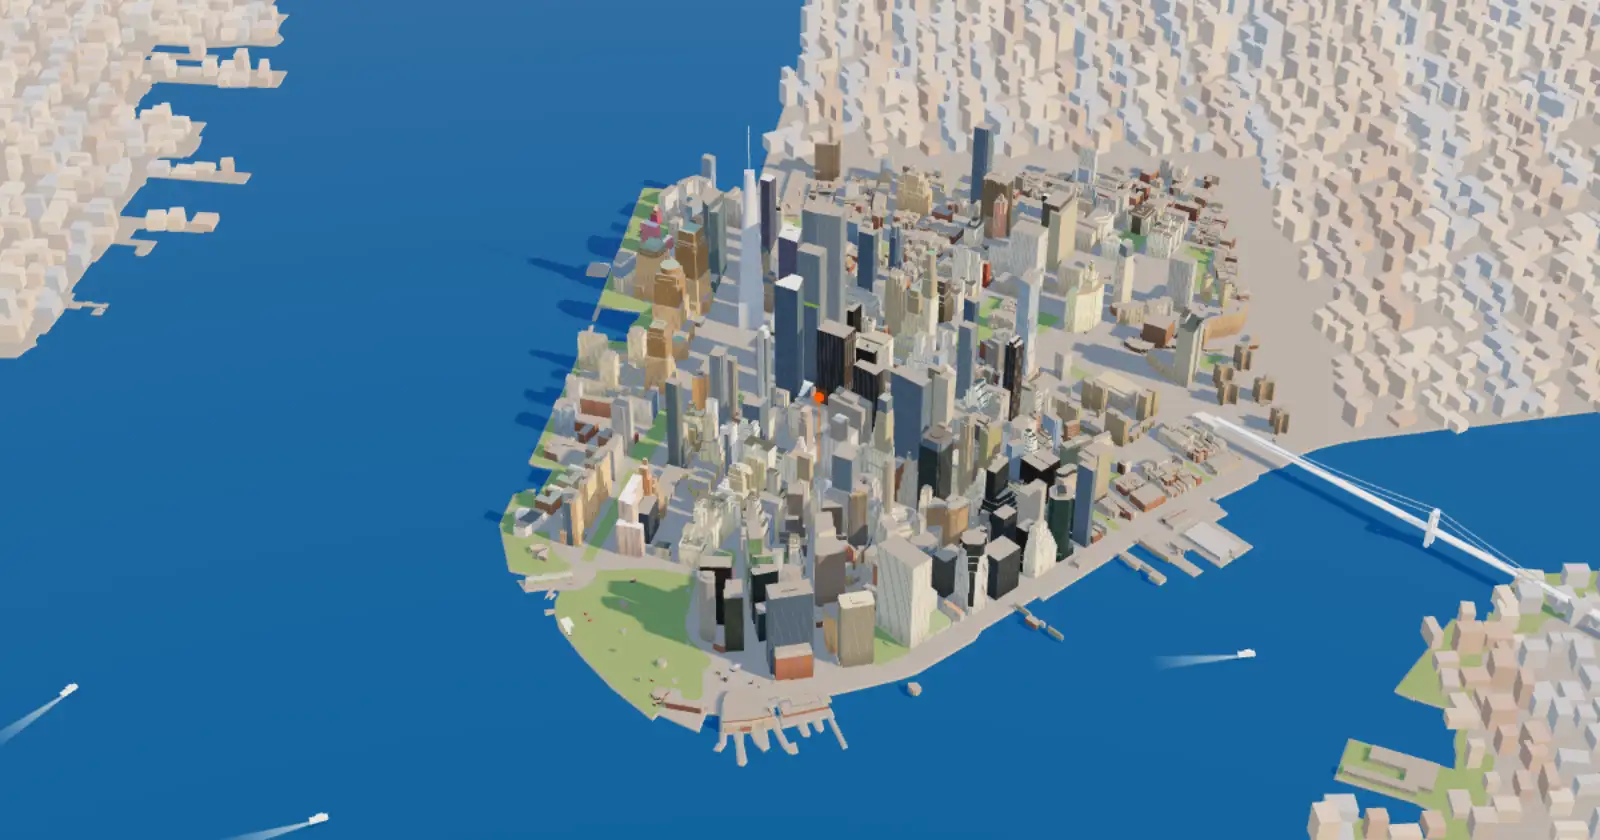
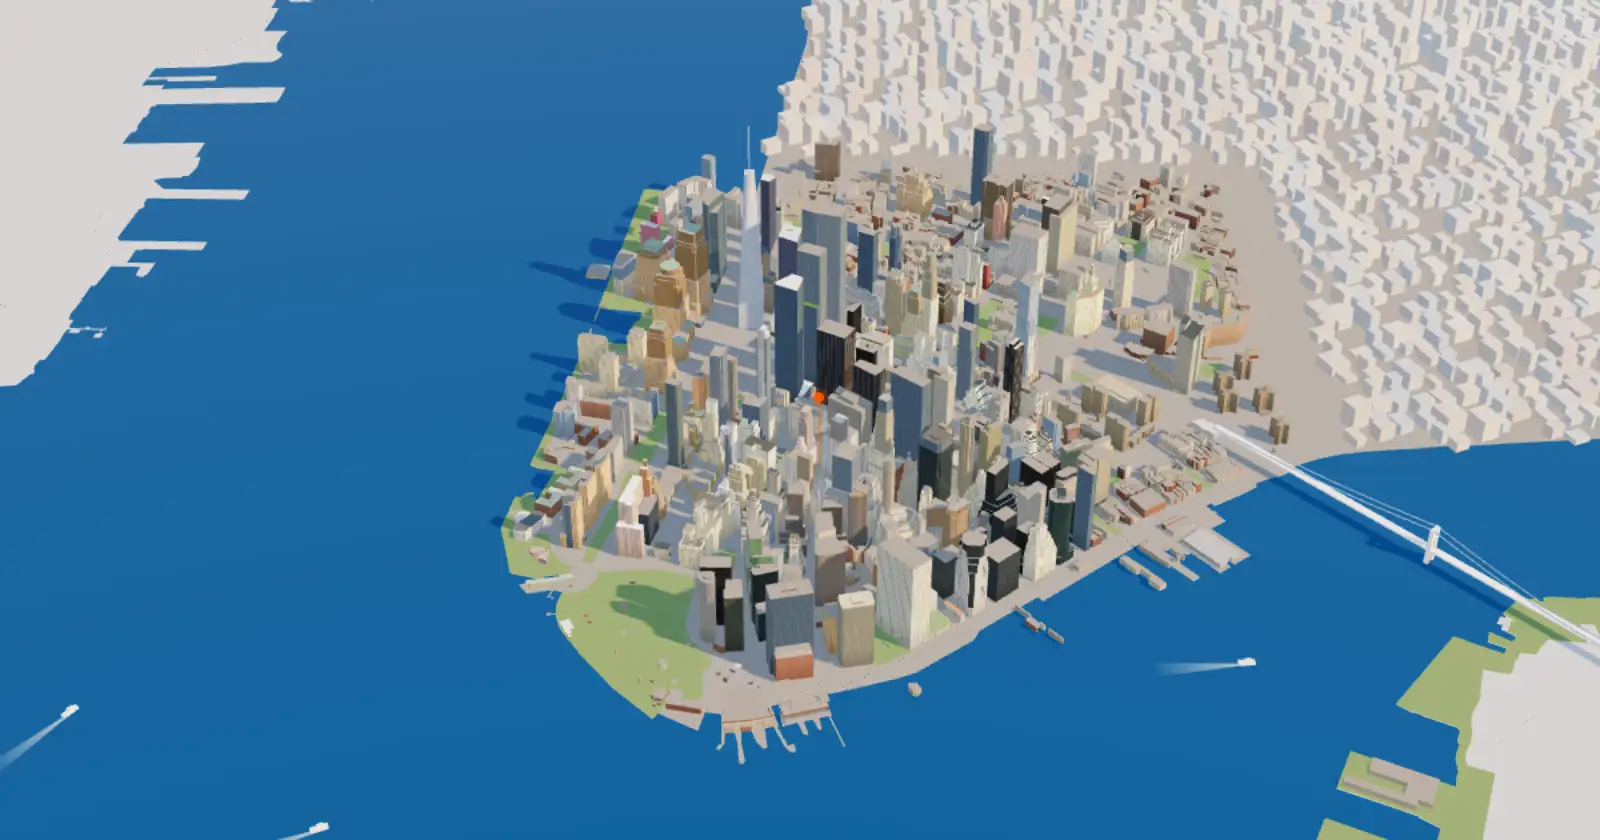
Curved harbour horizon, open sides; colour tokens on navy

diff --git a/src/style.css b/src/style.css
@@ -14,6 +14,8 @@
   --orange: #ff5400;
   --orange-press: #d06b18;
   --orange-text: #bf3f00;
+  --on-dark-2: rgba(255, 255, 255, 0.82); /* body copy on navy */
+  --on-dark-3: rgba(255, 255, 255, 0.66); /* labels, meta and fine print on navy */
   --orange-soft: #ff8a4c; /* orange for text on navy: 6:1 (brand orange is 3.5:1 there) */
   --bg: #f3f8ff; /* brand Cloud White */
   --surface: #ffffff;
@@ -133,7 +135,7 @@ main > section { scroll-margin-top: 72px; } /* anchor jumps clear the docked hea
 /* Paired times (the page's core idea, set as type): India time leads, New York time follows in muted tabular figures. */
 .tz, .tz-et { font-variant-numeric: tabular-nums; }
 .tz-et { color: var(--muted); font-weight: 600; white-space: nowrap; }
-.now-label .tz-et { color: rgba(255, 255, 255, 0.72); }
+.now-label .tz-et { color: var(--on-dark-3); }
 @media (max-width: 560px) {
   .now-label .now-word { display: none; } /* phones: the pill carries both times instead of the word */
   .when .lead .tz-et { display: block; } /* New York time on its own line, no leading separator */
@@ -292,25 +294,25 @@ main > section { scroll-margin-top: 72px; } /* anchor jumps clear the docked hea
 
 /* ---------- How it works: navy band with money routes ---------- */
 .eligibility { display: grid; grid-template-columns: 160px minmax(0, 1fr); gap: 24px; align-items: start; padding: 22px 26px; margin-bottom: 64px; border-radius: 16px; background: rgba(255, 255, 255, 0.06); box-shadow: inset 0 0 0 1px rgba(255, 255, 255, 0.12); }
-.eligibility-title { font-size: 12px; font-weight: 700; letter-spacing: 0.16em; text-transform: uppercase; color: rgba(255, 255, 255, 0.72); padding-top: 3px; }
+.eligibility-title { font-size: 12px; font-weight: 700; letter-spacing: 0.16em; text-transform: uppercase; color: var(--on-dark-3); padding-top: 3px; }
 .eligibility ul { list-style: none; margin: 0; padding: 0; display: grid; grid-template-columns: repeat(3, minmax(0, 1fr)); gap: 24px; }
 .eligibility li { display: flex; flex-direction: column; gap: 4px; }
 .eligibility strong { font-size: 16px; color: #fff; }
-.eligibility span { font-size: 14px; line-height: 1.5; color: rgba(255, 255, 255, 0.78); }
+.eligibility span { font-size: 14px; line-height: 1.5; color: var(--on-dark-2); }
 @media (max-width: 900px) { .eligibility { grid-template-columns: minmax(0, 1fr); gap: 14px; margin-bottom: 48px; } .eligibility ul { grid-template-columns: minmax(0, 1fr); gap: 14px; } }
 .how-dark { background: var(--navy); color: #fff; }
-.how-dark .eyebrow { color: rgba(255, 255, 255, 0.72); }
+.how-dark .eyebrow { color: var(--on-dark-3); }
 .how-dark .h2 { color: #fff; }
 .how-dark .steps::before { background: rgba(255, 255, 255, 0.2); }
 .how-dark .step-n { background: var(--navy); color: #fff; box-shadow: inset 0 0 0 2px rgba(255, 255, 255, 0.85), 0 0 0 8px var(--navy); }
 .how-dark .steps li:first-child .step-n { background: var(--orange); color: var(--ink); box-shadow: 0 0 0 8px var(--navy); }
 .how-dark .steps h3 { color: #fff; }
-.how-dark .steps p { color: rgba(255, 255, 255, 0.78); }
+.how-dark .steps p { color: var(--on-dark-2); }
 .route { margin-top: 72px; display: grid; gap: 20px; }
 .lane { padding: 28px 32px 32px; border-radius: 18px; background: rgba(255, 255, 255, 0.06); box-shadow: inset 0 0 0 1px rgba(255, 255, 255, 0.12); }
 .lane-head { display: flex; justify-content: space-between; align-items: baseline; gap: 16px; margin-bottom: 30px; }
 .lane-head h3 { font-size: 18px; font-weight: 800; color: #fff; }
-.lane-head span { font-size: 12px; font-weight: 700; letter-spacing: 0.12em; color: rgba(255, 255, 255, 0.72); }
+.lane-head span { font-size: 12px; font-weight: 700; letter-spacing: 0.12em; color: var(--on-dark-3); }
 .track { position: relative; }
 .track ol { list-style: none; margin: 0; padding: 0; display: grid; grid-template-columns: repeat(var(--n), minmax(0, 1fr)); }
 .rail { position: absolute; left: calc(50% / var(--n)); right: calc(50% / var(--n)); top: 7px; height: 2px; background: rgba(255, 255, 255, 0.22); }
@@ -320,9 +322,9 @@ main > section { scroll-margin-top: 72px; } /* anchor jumps clear the docked hea
 .node { position: relative; display: flex; flex-direction: column; align-items: center; gap: 14px; padding: 0 10px; text-align: center; }
 .node-dot { width: 16px; height: 16px; border-radius: 50%; background: var(--navy); box-shadow: inset 0 0 0 2px rgba(255, 255, 255, 0.85); }
 .node:last-child .node-dot { background: #fff; }
-.node-label { font-size: 14px; line-height: 1.45; color: rgba(255, 255, 255, 0.86); }
+.node-label { font-size: 14px; line-height: 1.45; color: var(--on-dark-2); }
 .node:last-child .node-label { color: #fff; font-weight: 700; }
-.lane-note { margin-top: 26px; padding-top: 18px; border-top: 1px solid rgba(255, 255, 255, 0.14); font-size: 14px; color: rgba(255, 255, 255, 0.78); }
+.lane-note { margin-top: 26px; padding-top: 18px; border-top: 1px solid rgba(255, 255, 255, 0.14); font-size: 14px; color: var(--on-dark-2); }
 /* Reveal: rail draws, nodes arrive in order, then the dot starts travelling (JS adds .is-in). */
 .js .lane .rail { transform: scaleX(0); transform-origin: left center; transition: transform 0.9s var(--ease) 0.1s; }
 .js .lane-out .rail { transform-origin: right center; }
@@ -378,7 +380,7 @@ main > section { scroll-margin-top: 72px; } /* anchor jumps clear the docked hea
 .layers .layer.layer-core { background: var(--navy); box-shadow: 0 18px 40px -20px rgba(4, 33, 63, 0.6); border-radius: 14px; }
 .layer-core .layer-tag { color: #fff; }
 .layer-core .layer-tag::before { content: ''; display: inline-block; width: 8px; height: 8px; margin-right: 8px; border-radius: 50%; background: var(--orange); vertical-align: 1px; }
-.layers .layer-core .layer-text { color: rgba(255, 255, 255, 0.86); }
+.layers .layer-core .layer-text { color: var(--on-dark-2); }
 @media (max-width: 900px) { .trust-split { grid-template-columns: minmax(0, 1fr); gap: 36px; } }
 @media (max-width: 560px) { .layer { padding: 16px 14px 16px; } .layers-inner { margin-top: 12px; } .layer-text { font-size: 14px; } }
 .trust { background: var(--surface); }
@@ -421,13 +423,13 @@ main > section { scroll-margin-top: 72px; } /* anchor jumps clear the docked hea
 @media (max-width: 900px) { .pricing-split { grid-template-columns: minmax(0, 1fr); gap: 36px; } }
 /* Pricing is a navy band: it splits the long light run after How and puts the deciding numbers on the strongest surface. */
 .pricing { background: var(--navy); color: #fff; }
-.pricing .eyebrow { color: rgba(255, 255, 255, 0.72); }
+.pricing .eyebrow { color: var(--on-dark-3); }
 .pricing .h2 { color: #fff; }
 .pricing .benefits li { border-top-color: rgba(255, 255, 255, 0.16); }
 .pricing .benefits strong { color: #fff; }
-.pricing .benefits span { color: rgba(255, 255, 255, 0.78); }
+.pricing .benefits span { color: var(--on-dark-2); }
 .pricing .prices { box-shadow: 0 24px 60px -24px rgba(5, 18, 40, 0.6); }
-.pricing .fine { color: rgba(255, 255, 255, 0.7); }
+.pricing .fine { color: var(--on-dark-3); }
 .pricing .fine a { color: #fff; text-decoration: underline; text-underline-offset: 2px; }
 .pricing-cta { align-self: flex-start; margin-top: 16px; } /* the decision point gets its action */
 @media (max-width: 900px) { .pricing-cta { display: none; } } /* the dock carries this action below 900px; here it would sit above the prices */
@@ -499,24 +501,24 @@ html:not(.js) .tabs { display: none; } /* without JS the tabs can't switch, so s
 .cta-inner { display: flex; flex-direction: column; align-items: flex-start; gap: 20px; }
 .cta .h2 { color: #fff; }
 .cta .lead { text-wrap: balance; }
-.cta .lead { color: rgba(255, 255, 255, 0.78); }
+.cta .lead { color: var(--on-dark-2); }
 .cta-capture { max-width: 560px; margin-top: 12px; text-align: left; box-shadow: 0 0 0 1px rgba(255, 255, 255, 0.12), 0 24px 50px -20px rgba(0, 0, 0, 0.5); }
 .cta .capture-error { color: #ffb4a8; margin-top: 0; }
 .cta .cta-inner > .cta-benefits { max-width: 680px; }
-.cta-benefits { list-style: none; margin: 0; padding: 0; display: flex; flex-wrap: wrap; gap: 8px 22px; font-size: 14px; font-weight: 600; color: rgba(255, 255, 255, 0.86); }
+.cta-benefits { list-style: none; margin: 0; padding: 0; display: flex; flex-wrap: wrap; gap: 8px 22px; font-size: 14px; font-weight: 600; color: var(--on-dark-2); }
 .cta-benefits li { display: flex; align-items: center; gap: 8px; }
 .cta-benefits li::before { content: ''; width: 6px; height: 6px; border-radius: 50%; background: var(--orange); }
 /* Even rows instead of a 3+1 wrap with an orphan: 2×2 under the form, one centred column on phones. */
 .cta-benefits { display: grid; grid-template-columns: repeat(2, max-content); gap: 10px 36px; }
 @media (max-width: 560px) { .cta-benefits { grid-template-columns: max-content; } }
-.footer { background: #052449; color: rgba(255, 255, 255, 0.78); padding: 64px 0 40px; font-size: 14px; }
+.footer { background: #052449; color: var(--on-dark-2); padding: 64px 0 40px; font-size: 14px; }
 .footer-grid { display: grid; grid-template-columns: 2fr 1fr 1fr 1fr; gap: 40px; }
 .footer-grid p { margin-top: 12px; line-height: 1.6; max-width: 340px; }
 .footer nav { display: flex; flex-direction: column; gap: 10px; }
-.footer h3 { font-size: 12px; font-weight: 700; letter-spacing: 0.16em; text-transform: uppercase; color: rgba(255, 255, 255, 0.72); margin-bottom: 4px; }
-.footer a { color: rgba(255, 255, 255, 0.85); text-decoration: none; }
+.footer h3 { font-size: 12px; font-weight: 700; letter-spacing: 0.16em; text-transform: uppercase; color: var(--on-dark-3); margin-bottom: 4px; }
+.footer a { color: var(--on-dark-2); text-decoration: none; }
 .footer a:hover { color: #fff; text-decoration: underline; }
-.footer-fine { margin-top: 48px; padding-top: 28px; border-top: 1px solid rgba(255, 255, 255, 0.14); font-size: 13px; line-height: 1.6; color: rgba(255, 255, 255, 0.72); }
+.footer-fine { margin-top: 48px; padding-top: 28px; border-top: 1px solid rgba(255, 255, 255, 0.14); font-size: 13px; line-height: 1.6; color: var(--on-dark-3); }
 
 /* ---------- Mobile dock: persistent CTA once the hero form is off-screen ---------- */
 .dock { display: none; }
@@ -757,11 +759,11 @@ main > section:not(.hero):not(.how-dark):not(.pricing):not(.cta), body > .footer
 .board { border-radius: 26px; padding: 26px 30px 14px; color: #fff; background: radial-gradient(120% 120% at 0% 0%, #0e3a72 0%, #062852 55%, #041f42 100%); box-shadow: 0 1px 0 rgba(255, 255, 255, 0.06) inset, 0 40px 80px -50px rgba(4, 33, 63, 0.7); }
 .board-top { display: flex; justify-content: space-between; align-items: center; gap: 16px; padding-bottom: 18px; border-bottom: 1px solid rgba(255, 255, 255, 0.1); }
 .board-title { font-size: 12px; font-weight: 700; letter-spacing: 0.18em; text-transform: uppercase; color: var(--orange-soft); }
-.board-status { display: flex; align-items: center; gap: 8px; font-size: 13px; color: rgba(255, 255, 255, 0.78); }
+.board-status { display: flex; align-items: center; gap: 8px; font-size: 13px; color: var(--on-dark-2); }
 .board-status .live-dot { margin-top: 0; }
 .board-table { width: 100%; border-collapse: collapse; }
-.board-table th { padding: 16px 16px 8px 0; text-align: left; font-size: 11px; font-weight: 700; letter-spacing: 0.14em; text-transform: uppercase; color: rgba(255, 255, 255, 0.6); }
-.board-table td { padding: 14px 16px 14px 0; border-top: 1px solid rgba(255, 255, 255, 0.08); font-size: 15px; color: rgba(255, 255, 255, 0.8); vertical-align: middle; }
+.board-table th { padding: 16px 16px 8px 0; text-align: left; font-size: 11px; font-weight: 700; letter-spacing: 0.14em; text-transform: uppercase; color: var(--on-dark-3); }
+.board-table td { padding: 14px 16px 14px 0; border-top: 1px solid rgba(255, 255, 255, 0.08); font-size: 15px; color: var(--on-dark-2); vertical-align: middle; }
 .board-table tbody tr:first-child td { border-top: 0; }
 .board-table tr > :last-child { padding-right: 0; text-align: right; }
 .flaps { display: inline-flex; gap: 3px; }
@@ -818,7 +820,7 @@ main > section:not(.hero):not(.how-dark):not(.pricing):not(.cta), body > .footer
 .tile p { font-size: 15px; line-height: 1.6; color: var(--slate); }
 .tile-lead { grid-column: 1 / span 2; grid-row: 1 / span 2; justify-content: flex-start; color: #fff; background: radial-gradient(120% 100% at 0% 0%, #11407c 0%, #072d5e 55%, #052449 100%); }
 .tile-lead h3 { color: #fff; font-size: 26px; }
-.tile-lead p { color: rgba(255, 255, 255, 0.8); max-width: 420px; }
+.tile-lead p { color: var(--on-dark-2); max-width: 420px; }
 .tile-marks { list-style: none; margin: auto 0 0; padding: 0; display: grid; grid-template-columns: repeat(4, 1fr); gap: 12px; }
 .tile-marks li { display: grid; place-items: center; height: 64px; border-radius: 16px; background: rgba(255, 255, 255, 0.07); box-shadow: inset 0 0 0 1px rgba(255, 255, 255, 0.1); }
 .tile-marks .logo { width: 26px; height: 26px; color: #fff; }
@@ -903,7 +905,7 @@ main > section:not(.hero):not(.how-dark):not(.pricing):not(.cta), body > .footer
 .floater > span:not([class]), .floater .f-logos + small { display: flex; flex-direction: column; }
 .floater b { font-weight: 800; color: var(--ink); }
 .floater small { font-size: 12px; color: var(--slate); font-weight: 600; }
-.f-ok { display: grid; place-items: center; width: 30px; height: 30px; border-radius: 50%; background: #1f8a4c; color: #fff; font-weight: 800; }
+.f-ok { display: grid; place-items: center; width: 30px; height: 30px; border-radius: 50%; background: #177a42; color: #fff; font-weight: 800; }
 .f-fx { font-weight: 800; color: var(--orange-text); font-size: 16px; } .f-fx i { font-style: normal; color: var(--muted); }
 .f2 { flex-direction: column; align-items: flex-start; gap: 2px; }
 .f3, .f6 { flex-direction: column; gap: 0; align-items: flex-start; } .f3 b, .f6 b { font-size: 26px; line-height: 1.1; color: var(--orange-text); }

diff --git a/src/city.js b/src/city.js
@@ -4,6 +4,15 @@
 import * as THREE from 'three';
 
 const PAGE_BG = 0xf3f8ff; // brand Cloud White; must match --bg
+
+// Curved horizon (the reference's "earth falling away"): every vertex drops with its distance from the camera's
+// line of sight, sideways and beyond the focus. Done once in the shared projection chunk so all materials,
+// shadows and sprites agree. CURVE_D is roughly the camera-to-focus distance; the label mirrors it in JS.
+const CURVE_K = 0.00016, CURVE_D = 1150;
+THREE.ShaderChunk.project_vertex = THREE.ShaderChunk.project_vertex.replace(
+  'mvPosition = modelViewMatrix * mvPosition;',
+  'mvPosition = modelViewMatrix * mvPosition;\n{ float dz_ = max(0.0, -mvPosition.z - ' + CURVE_D.toFixed(1) + '); mvPosition.y -= (dz_ * dz_ + mvPosition.x * mvPosition.x) * ' + CURVE_K + '; }',
+);
 const ORANGE = 0xff5400;
 const GROUND = 0.6; // land surface height
 
@@ -105,7 +114,7 @@ export function createCity({ canvas, label, reducedMotion = false, withClouds = 
     marker: new THREE.MeshBasicMaterial({ color: ORANGE, transparent: true, opacity: 0.95, depthWrite: false }),
   };
 
-  const water = new THREE.Mesh(new THREE.PlaneGeometry(3000, 3000), mat.water);
+  const water = new THREE.Mesh(new THREE.PlaneGeometry(3600, 3600, 160, 160), mat.water);
   water.rotation.x = -Math.PI / 2;
   water.receiveShadow = true;
   scene.add(water);
@@ -129,16 +138,33 @@ export function createCity({ canvas, label, reducedMotion = false, withClouds = 
   function build(d) {
     const rand = rng(7);
     // ---- Land and parks (flat clay slabs on the water)
+    // Flat ground pieces, tessellated so the curved horizon bends them smoothly (long triangles would sink).
+    const tessellate = (geo, maxEdge) => {
+      const src = geo.toNonIndexed().attributes.position.array, out = [];
+      const split = (a, b, c, depth) => {
+        const d = (p, q) => Math.hypot(p[0] - q[0], p[2] - q[2]);
+        if (depth > 9 || Math.max(d(a, b), d(b, c), d(c, a)) <= maxEdge) { out.push(...a, ...b, ...c); return; }
+        const m = (p, q) => [(p[0] + q[0]) / 2, (p[1] + q[1]) / 2, (p[2] + q[2]) / 2];
+        const ab = m(a, b), bc = m(b, c), ca = m(c, a);
+        split(a, ab, ca, depth + 1); split(ab, b, bc, depth + 1); split(ca, bc, c, depth + 1); split(ab, bc, ca, depth + 1);
+      };
+      for (let i = 0; i < src.length; i += 9) split([src[i], src[i + 1], src[i + 2]], [src[i + 3], src[i + 4], src[i + 5]], [src[i + 6], src[i + 7], src[i + 8]], 0);
+      const g = new THREE.BufferGeometry();
+      g.setAttribute('position', new THREE.Float32BufferAttribute(out, 3));
+      g.computeVertexNormals();
+      return g;
+    };
     const slab = (flat, depth, material, y) => {
       const shape = new THREE.Shape(pairs(flat).map(([x, z]) => new THREE.Vector2(x, -z)));
-      const geo = depth ? new THREE.ExtrudeGeometry(shape, { depth, bevelEnabled: true, bevelSize: 0.5, bevelThickness: 0.25, bevelSegments: 1 }) : new THREE.ShapeGeometry(shape);
+      const geo = new THREE.ShapeGeometry(shape);
       geo.rotateX(-Math.PI / 2);
-      const m = new THREE.Mesh(geo, material);
-      m.position.y = y;
+      const m = new THREE.Mesh(tessellate(geo, 24), material);
+      m.position.y = y + depth;
       m.receiveShadow = true;
       scene.add(m);
     };
-    d.land.forEach((l) => slab(l, GROUND - 0.25, mat.land, 0));
+    const farLand = new THREE.MeshStandardMaterial({ color: 0xc9ced3, roughness: 1 }); // other shores: pale, hazy, secondary
+    d.land.forEach((l, i) => slab(l, GROUND - 0.25, i === 0 ? mat.land : farLand, 0));
     d.parks.forEach((p) => slab(p, 0, mat.park, GROUND + 0.02));
 
     // ---- Buildings: one merged mesh of real footprints, extruded to real heights.
@@ -233,6 +259,7 @@ export function createCity({ canvas, label, reducedMotion = false, withClouds = 
         if (inMapped || !lands.some((l) => inside(l, x, z))) continue;
         const north = Math.max(0, -(z - mz0)) / 120; // Manhattan rises again towards Midtown
         const onManhattan = inside(lands[0], x, z);
+        if (!onManhattan && (Math.hypot(x, z) < 650 || rand() < 0.45)) continue; // keep the near sides open water and low shore: Manhattan is the subject
         const midtown = onManhattan ? Math.exp(-((x - esb[0]) ** 2 + (z - esb[1]) ** 2) / (2 * 130 ** 2)) : 0;
         const h = 1.6 + rand() * 5 + (onManhattan ? rand() * 9 * Math.min(1, 0.4 + north) : rand() * 4) + midtown * rand() * rand() * 34;
         fill.push({ x: x + (rand() - 0.5) * 4, z: z + (rand() - 0.5) * 4, w: 2.5 + rand() * 5, d: 2.5 + rand() * 5, r: onManhattan ? 0.5 + (rand() - 0.5) * 0.08 : (rand() - 0.5) * 0.3, h: h * (0.5 + rand() * 0.5), delay: 0.8 + Math.hypot(x, z) * 0.004 + rand() * 0.3 });
@@ -244,7 +271,7 @@ export function createCity({ canvas, label, reducedMotion = false, withClouds = 
     const CTX = ['#b9a48c', '#a7856c', '#c8b9a3', '#9fa6ad', '#8d9fb2', '#c3ad94', '#a8968a'].map((h) => new THREE.Color(h)); // brownstone, brick, limestone, glass
     const bgC = new THREE.Color(PAGE_BG), tc = new THREE.Color();
     // Atmospheric perspective: context blocks fade toward the page colour with distance, so the real island stays the subject.
-    fill.forEach((bk, i) => ctxMesh.setColorAt(i, tc.copy(CTX[(i * 7 + (i >> 3)) % CTX.length]).lerp(bgC, Math.min(0.6, 0.05 + Math.hypot(bk.x, bk.z) / 1300))));
+    fill.forEach((bk, i) => ctxMesh.setColorAt(i, tc.copy(CTX[(i * 7 + (i >> 3)) % CTX.length]).lerp(bgC, Math.min(0.78, 0.2 + Math.hypot(bk.x, bk.z) / 900))));
     scene.add(ctxMesh);
     const m4 = new THREE.Matrix4(), q = new THREE.Quaternion(), pv = new THREE.Vector3(), sv = new THREE.Vector3(), yAxis = new THREE.Vector3(0, 1, 0);
     placeContext = (time) => {
@@ -518,7 +545,9 @@ export function createCity({ canvas, label, reducedMotion = false, withClouds = 
     renderer.render(scene, camera);
 
     if (label && introDone) {
-      v.copy(anchor).project(camera);
+      v.copy(anchor).applyMatrix4(camera.matrixWorldInverse);
+      { const dz = Math.max(0, -v.z - CURVE_D); v.y -= (dz * dz + v.x * v.x) * CURVE_K; }
+      v.applyMatrix4(camera.projectionMatrix);
       label.style.transform = `translate3d(${((v.x + 1) / 2) * size.w}px, ${size.top + ((1 - v.y) / 2) * size.h}px, 0) translate(-50%, calc(-100% - 14px))`;
     }
 
